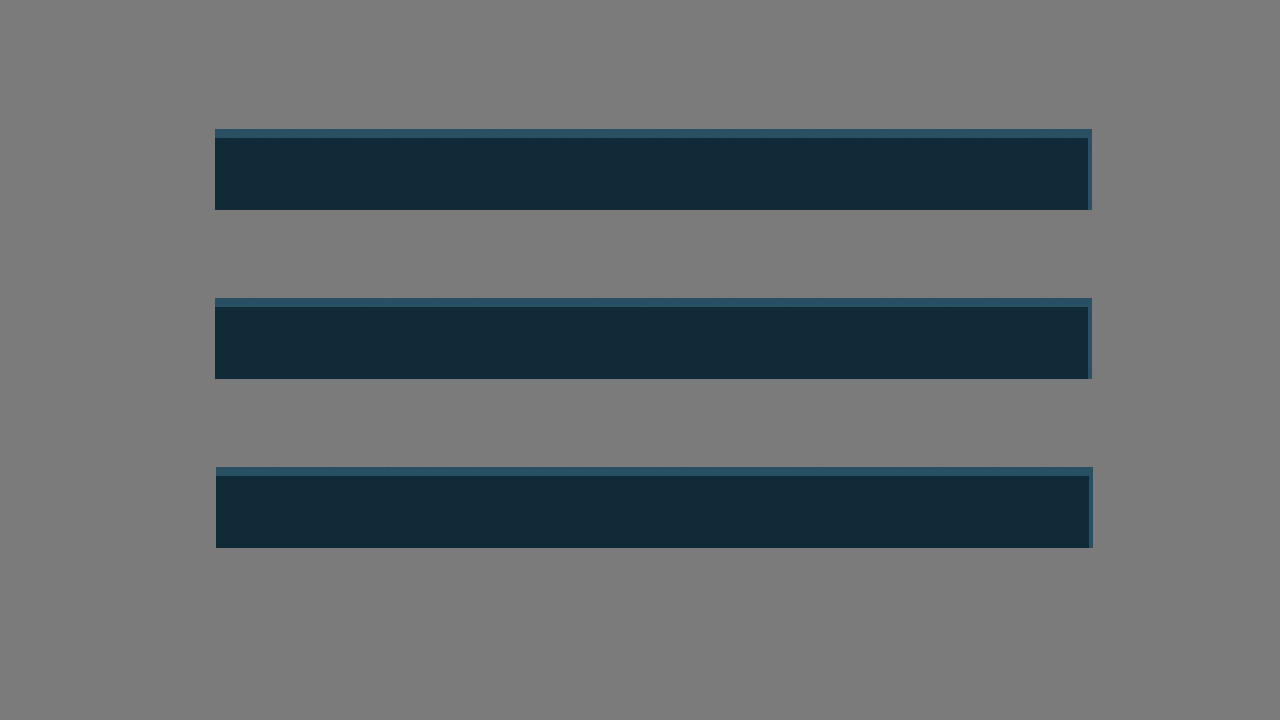
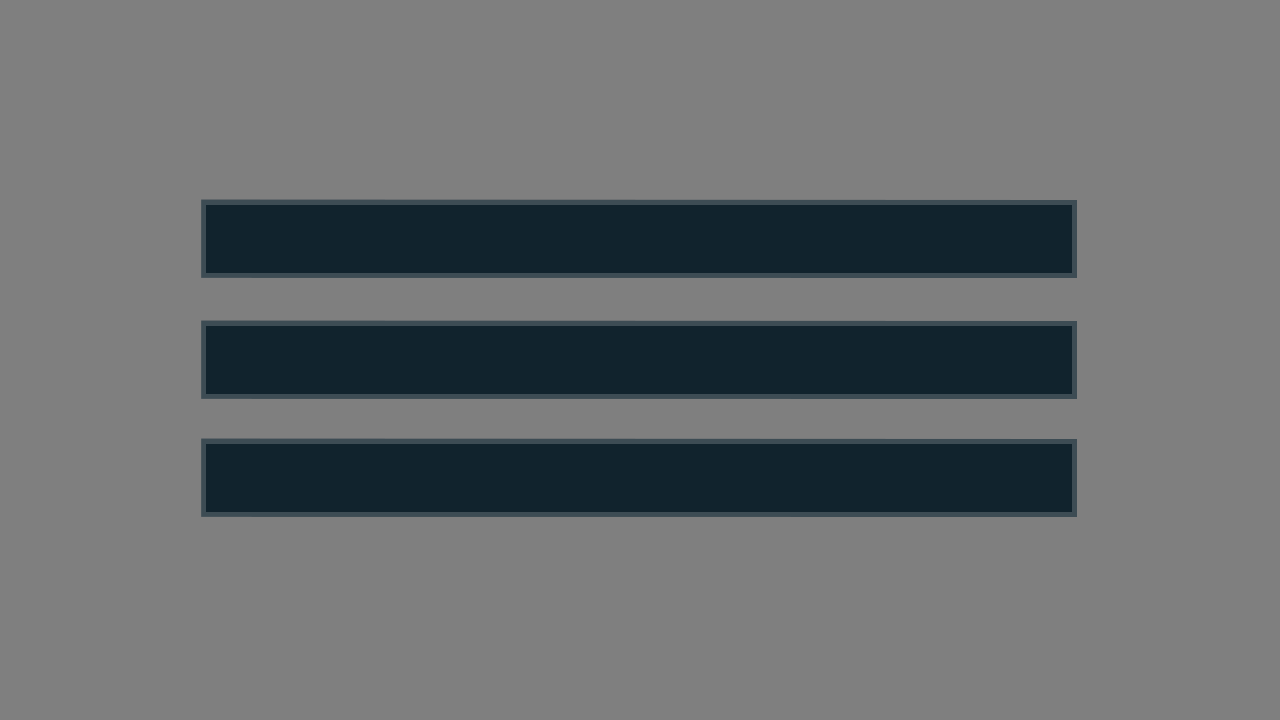
Fixed some branching issues, edited options UI

Changed region(s): [[0.1562, 0.1528, 0.875, 0.5806], [0.1562, 0.6111, 0.875, 0.7639]]

diff --git a/src/shit.java b/src/shit.java
@@ -78,7 +78,7 @@ public class shit extends Applet implements KeyListener, MouseListener, Runnable
 			// TODO Auto-generated catch block
 			e.printStackTrace();
 		}
-
+		
 		resize(SCREENWIDTH,SCREENHEIGHT); //Makes the applet the size we want it
 		addMouseListener(this); //Lets us use mouse
 		addKeyListener(this); //Lets us use keyboard
@@ -109,9 +109,10 @@ public class shit extends Applet implements KeyListener, MouseListener, Runnable
 		//use scene to draw the background
 		
 		scene.setRenderingHint(RenderingHints.KEY_ANTIALIASING,RenderingHints.VALUE_ANTIALIAS_ON);
+
+		g.clearRect(0, 0, SCREENWIDTH, SCREENHEIGHT);//Clears the screen
 		
 		Font q = new Font("Source Sans Pro",Font.PLAIN,40);//Makes the font we use for options and story text
-		g.clearRect(0, 0, SCREENWIDTH, SCREENHEIGHT);//Clears the screen
 		g.setFont(q); //Sets the default font
 		
 		g.setColor(Color.white);
@@ -120,7 +121,7 @@ public class shit extends Applet implements KeyListener, MouseListener, Runnable
 		{
 			drawTag(g);
 			g.drawImage(textBox, 0,0,null); //draw the story boxes
-			Font n = new Font("Arial",Font.BOLD,48);//Makes the font for the names
+			Font n = new Font("Source Sans Pro",Font.BOLD,48);//Makes the font for the names
 			g.setFont(n); //Sets the name font
 			scene.drawString(nameC,53,435); //Draws the current name
 			g.setFont(q);//sets the quote font 
@@ -153,22 +154,20 @@ public class shit extends Applet implements KeyListener, MouseListener, Runnable
 		{
 			scene.drawImage(bg, 0, 0, null);
 			scene.drawImage(obox, 0, 0, null);//options thing
-			scene.drawString(options.get(0), 220, 180);
-			scene.drawString(options.get(1), 220, 358);
-			scene.drawString(options.get(2), 220, 527);
+			scene.drawString(options.get(0), 220, 255);
+			scene.drawString(options.get(1), 220, 375);
+			scene.drawString(options.get(2), 220, 495);
 		}
 		else if(state == 3)//Game is over
 		{
-
+			scene.drawImage(bg, 0, 0, null);
 			scene.drawString("The end", 40, 520); //End screen
 		}
 	}
 	public void drawTag(Graphics g)
 	{
 		try {
-			System.out.println(tag);
 			String b = tag.substring(tag.indexOf("B"), tag.indexOf("B")+2);//gets the file name of the background file
-			System.out.println(b);
 			bg = ImageIO.read(new File(b+".png"));//reads in the background file
 			
 			if(oldbg == null)
@@ -178,9 +177,7 @@ public class shit extends Applet implements KeyListener, MouseListener, Runnable
 			}
 			
 			else if(oldbg != bg && oldbg != null)
-			{
-				System.out.println(fadeCounter);
-				
+			{				
 				if(fadeTrack)
 				{
 					fadeCounter = 0;
@@ -216,7 +213,6 @@ public class shit extends Applet implements KeyListener, MouseListener, Runnable
 				String tagCopy = tag; // Need to make a copy because we still need to access the background component later
 				tagCopy = tagCopy.substring(tag.indexOf("T"));//gets the rest of the string after the tag of where they are
 				String ch1 = tagCopy.substring(1, 4);//gets the name of the first character file
-				System.out.println(ch1+"***");
 				c1 = ImageIO.read(new File(ch1+".png"));//reads in the first character image
 				String ch2 = tagCopy.substring(4);//second char file
 				c2 = ImageIO.read(new File(ch2+".png"));//reads in
@@ -238,7 +234,6 @@ public class shit extends Applet implements KeyListener, MouseListener, Runnable
 	}
 	public  void progress() //Function that goes to the next step in the story
 	{
-		System.out.println("Progress called");
 //		ap.play("/Resources/Music/Scrollsound.mp3"); //THIS SHIT DOESN'T WORK WHAT THE FUCK DEHOWE
 		String name; //Name of the char 
 		String quote;//Current quote
@@ -275,7 +270,6 @@ public class shit extends Applet implements KeyListener, MouseListener, Runnable
 	public  void display(String name, String quote)
 	{
 		state = 1;//Lets the game know it's in a quote
-		System.out.println(name + ":" + quote); //Console shit can be removed whenever
 		nameC=name; // sets the global current name so paint knows what to show
 		quoteC = quote;// sets global quote
 	}
@@ -287,7 +281,6 @@ public class shit extends Applet implements KeyListener, MouseListener, Runnable
 		{
 			working = working.substring(working.indexOf(']')+1); //takes out the tag
 			options.set(i, working.substring(0,working.indexOf('>')));//sets the array list
-			System.out.println(working.substring(0,working.indexOf('>')));//console shit can be removed whenever
 			working = working.substring(working.indexOf('>')+1);//cuts out the first option
 			i++;
 		}
@@ -303,6 +296,9 @@ public class shit extends Applet implements KeyListener, MouseListener, Runnable
 	{
 		if(tag.startsWith("C"))//is it a path choice
 		{
+			System.out.println("Tag: " + tag);
+			System.out.println("Index: " + index);
+			System.out.println("Choice: " + choice);
 			return lookFor("A"+choice)+1;//goes to the spot in the path you want eg. "A1"
 		}
 		else //A normal points based option
@@ -359,8 +355,10 @@ public class shit extends Applet implements KeyListener, MouseListener, Runnable
 	private  int lookFor(String string) {//find the next part of the story
 		for(int i = index; i <p.Story.size(); i++)//starts where we are and goes to the end of the story
 		{
+			System.out.println(p.Story.get(i));
 			if(p.Story.get(i).contains(string)) //found the string
 			{
+				System.out.println(i);
 				return i;//return where we are
 			}
 		}
@@ -369,6 +367,7 @@ public class shit extends Applet implements KeyListener, MouseListener, Runnable
 	private  int lookFor(String string,int current) {//find the next point value this method is redundant and can easily be taken out
 		for(int i = current; i <p.Story.size(); i++) //starts where we are and goes to end
 		{
+			System.out.println(p.Story.get(i));
 			if(p.Story.get(i).startsWith(string))//found the points
 			{
 				return i;//return where we are
@@ -381,6 +380,8 @@ public class shit extends Applet implements KeyListener, MouseListener, Runnable
 		// TODO Auto-generated method stub
 		if(state == 1)//we are in a story
 		{
+			fadeUpdate = true;
+			fadeCounter = 0;
 			progress();//keep going
 		}
 	}

diff --git a/src/parser.java b/src/parser.java
@@ -30,7 +30,6 @@ public class parser
 		char sent; //first char
 		if(!all.isEmpty()) //we ain't done
 		{
-			System.out.println(all);
 			sent = all.charAt(0);//make it the first char
 			int start = 0; //preliminary value
 			int end = 0;// preliminary value
@@ -56,7 +55,6 @@ public class parser
 					end = all.indexOf('>');
 					options+=all.substring(0,start)+']'+all.substring(start+1, end+1);//adds next option
 					all = all.substring(end+1);//erase what we just added
-					System.out.println(options);
 				}
 				all = all.substring(1);//erases the *
 				return options;//adds a string with all the options 
@@ -65,7 +63,7 @@ public class parser
 			{
 				String a = all.substring(0,2); //return what it's called
 				all = all.substring(2); //remove what we just added
-				if (all.length()>2)//dont' worry bout this
+				//if (all.length()>2)//dont' worry bout this
 				return(a);//adds "A2" or something like it
 			}
 			if(sent == 'E')//ending
